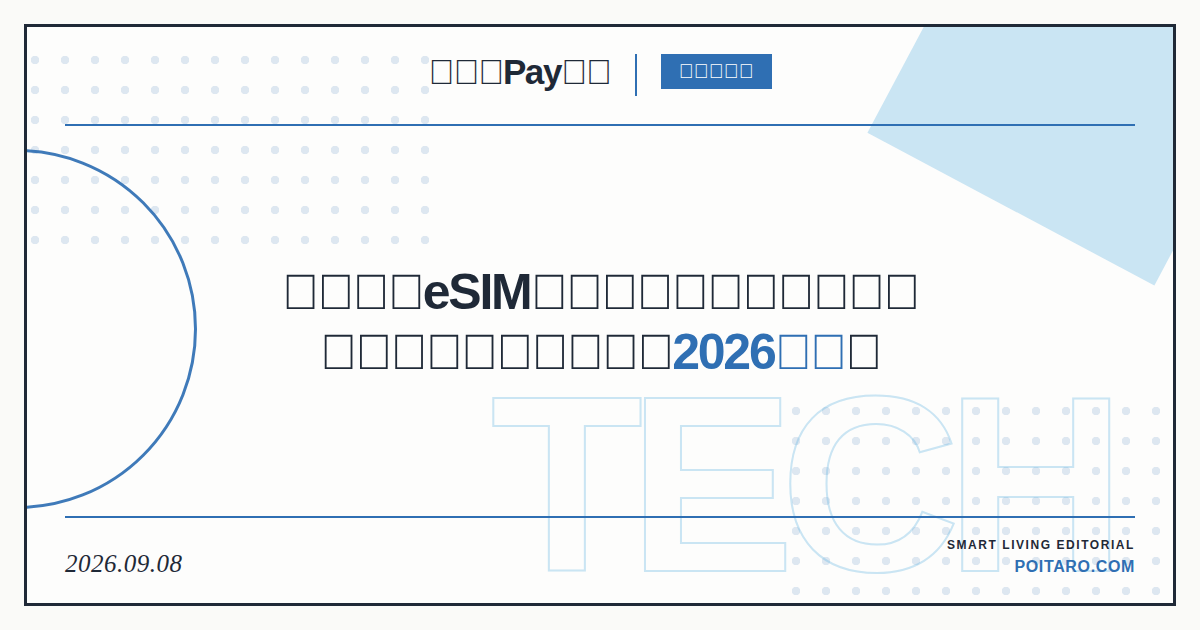
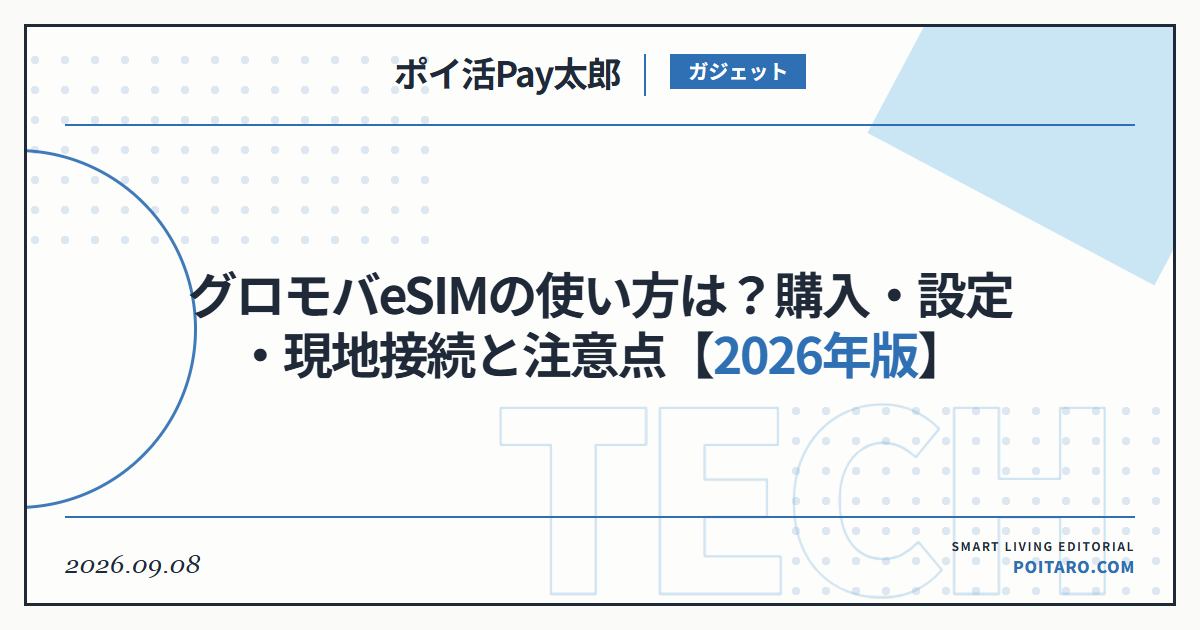
deploy: site with generated thumbnails and articles 7919da9fbc790c1b5a4da77de84e70a3f6fb7047

diff --git a/articles_html/sim-card-vs-esim-difference-travel-2026.html b/articles_html/sim-card-vs-esim-difference-travel-2026.html
@@ -24,7 +24,7 @@
     <meta property="og:site_name" content="ポイ活Pay太郎">
     <meta property="og:locale" content="ja_JP">
     <meta property="article:published_time" content="2026-09-07T15:00:00.000Z">
-    <meta property="article:modified_time" content="2026-09-08T12:34:03.858Z">
+    <meta property="article:modified_time" content="2026-09-08T12:43:52.773Z">
     <meta property="article:section" content="ガジェット">
 
     <!-- Twitter Card -->
@@ -34,7 +34,7 @@
     <meta name="twitter:image" content="https://poitaro.com/thumbnails/sim-card-vs-esim-difference-travel-2026.png">
     <meta name="twitter:image:alt" content="SIMカードとeSIMの違いは？メリット・デメリットと海外旅行での選び方【2026年版】">
 
-    <script type="application/ld+json">{"@context":"https://schema.org","@type":"Article","headline":"SIMカードとeSIMの違いは？メリット・デメリットと海外旅行での選び方【2026年版】","description":"SIMカードとeSIMは何が違う？差し替え、設定、対応端末、安全性、デュアルSIM、海外旅行での使いやすさを比較し、どちらを選ぶべきか分かりやすく解説します。","image":["https://poitaro.com/thumbnails/sim-card-vs-esim-difference-travel-2026.png"],"datePublished":"2026-09-07T15:00:00.000Z","dateModified":"2026-09-08T12:34:03.858Z","author":{"@type":"Person","name":"ポイ活Pay太郎","url":"https://poitaro.com/about.html"},"publisher":{"@type":"Organization","name":"ポイ活Pay太郎","url":"https://poitaro.com/"},"mainEntityOfPage":{"@type":"WebPage","@id":"https://poitaro.com/articles_html/sim-card-vs-esim-difference-travel-2026.html"},"articleSection":"ガジェット","keywords":"eSIM, SIMカード, 海外旅行, デュアルSIM, iPhone, Android, グロモバeSIM"}</script>
+    <script type="application/ld+json">{"@context":"https://schema.org","@type":"Article","headline":"SIMカードとeSIMの違いは？メリット・デメリットと海外旅行での選び方【2026年版】","description":"SIMカードとeSIMは何が違う？差し替え、設定、対応端末、安全性、デュアルSIM、海外旅行での使いやすさを比較し、どちらを選ぶべきか分かりやすく解説します。","image":["https://poitaro.com/thumbnails/sim-card-vs-esim-difference-travel-2026.png"],"datePublished":"2026-09-07T15:00:00.000Z","dateModified":"2026-09-08T12:43:52.773Z","author":{"@type":"Person","name":"ポイ活Pay太郎","url":"https://poitaro.com/about.html"},"publisher":{"@type":"Organization","name":"ポイ活Pay太郎","url":"https://poitaro.com/"},"mainEntityOfPage":{"@type":"WebPage","@id":"https://poitaro.com/articles_html/sim-card-vs-esim-difference-travel-2026.html"},"articleSection":"ガジェット","keywords":"eSIM, SIMカード, 海外旅行, デュアルSIM, iPhone, Android, グロモバeSIM"}</script>
     <script type="application/ld+json">{"@context":"https://schema.org","@type":"BreadcrumbList","itemListElement":[{"@type":"ListItem","position":1,"name":"ホーム","item":"https://poitaro.com/"},{"@type":"ListItem","position":2,"name":"ガジェット","item":"https://poitaro.com/?category=%E3%82%AC%E3%82%B8%E3%82%A7%E3%83%83%E3%83%88"},{"@type":"ListItem","position":3,"name":"SIMカードとeSIMの違いは？メリット・デメリットと海外旅行での選び方【2026年版】","item":"https://poitaro.com/articles_html/sim-card-vs-esim-difference-travel-2026.html"}]}</script>
 
     <!-- Favicon -->
@@ -747,7 +747,7 @@
                         <p class="mt-3 text-sm md:text-base leading-relaxed text-gray-700">SIMカードとeSIMは何が違う？差し替え、設定、対応端末、安全性、デュアルSIM、海外旅行での使いやすさを比較し、どちらを選ぶべきか分かりやすく解説します。</p>
                         <div class="flex flex-wrap items-center gap-x-4 gap-y-1 mt-4 text-xs md:text-sm font-bold text-gray-600">
                             <span><i data-lucide="calendar-days" class="w-3.5 h-3.5 inline mr-1"></i>公開 <time datetime="2026-09-07T15:00:00.000Z">2026-09-08</time></span>
-                            <span><i data-lucide="rotate-cw" class="w-3.5 h-3.5 inline mr-1"></i>更新 <time datetime="2026-09-08T12:34:03.858Z">2026-09-08</time></span>
+                            <span><i data-lucide="rotate-cw" class="w-3.5 h-3.5 inline mr-1"></i>更新 <time datetime="2026-09-08T12:43:52.773Z">2026-09-08</time></span>
                             <a href="../about.html#author" class="hover:text-brand-purple transition-colors"><i data-lucide="user-round" class="w-3.5 h-3.5 inline mr-1"></i>執筆・編集: ポイ活Pay太郎</a>
                             <a href="../about.html#editorial-policy" class="hover:text-brand-purple transition-colors"><i data-lucide="badge-check" class="w-3.5 h-3.5 inline mr-1"></i>編集・検証方針</a>
                         </div>

diff --git a/articles_html/gmobile-esim-how-to-use-2026.html b/articles_html/gmobile-esim-how-to-use-2026.html
@@ -24,7 +24,7 @@
     <meta property="og:site_name" content="ポイ活Pay太郎">
     <meta property="og:locale" content="ja_JP">
     <meta property="article:published_time" content="2026-09-07T15:00:00.000Z">
-    <meta property="article:modified_time" content="2026-09-08T12:34:03.853Z">
+    <meta property="article:modified_time" content="2026-09-08T12:43:52.768Z">
     <meta property="article:section" content="ガジェット">
 
     <!-- Twitter Card -->
@@ -34,7 +34,7 @@
     <meta name="twitter:image" content="https://poitaro.com/thumbnails/gmobile-esim-how-to-use-2026.png">
     <meta name="twitter:image:alt" content="グロモバeSIMの使い方は？購入・設定・現地接続と注意点【2026年版】">
 
-    <script type="application/ld+json">{"@context":"https://schema.org","@type":"Article","headline":"グロモバeSIMの使い方は？購入・設定・現地接続と注意点【2026年版】","description":"グロモバeSIMの使い方を、購入前の確認、プラン選択、QRコードによる設定、現地での回線切り替え、つながらないときの対処まで順番に解説します。","image":["https://poitaro.com/thumbnails/gmobile-esim-how-to-use-2026.png"],"datePublished":"2026-09-07T15:00:00.000Z","dateModified":"2026-09-08T12:34:03.853Z","author":{"@type":"Person","name":"ポイ活Pay太郎","url":"https://poitaro.com/about.html"},"publisher":{"@type":"Organization","name":"ポイ活Pay太郎","url":"https://poitaro.com/"},"mainEntityOfPage":{"@type":"WebPage","@id":"https://poitaro.com/articles_html/gmobile-esim-how-to-use-2026.html"},"articleSection":"ガジェット","keywords":"グロモバeSIM, eSIM, 海外旅行, iPhone, Android, データローミング, SIMロック"}</script>
+    <script type="application/ld+json">{"@context":"https://schema.org","@type":"Article","headline":"グロモバeSIMの使い方は？購入・設定・現地接続と注意点【2026年版】","description":"グロモバeSIMの使い方を、購入前の確認、プラン選択、QRコードによる設定、現地での回線切り替え、つながらないときの対処まで順番に解説します。","image":["https://poitaro.com/thumbnails/gmobile-esim-how-to-use-2026.png"],"datePublished":"2026-09-07T15:00:00.000Z","dateModified":"2026-09-08T12:43:52.768Z","author":{"@type":"Person","name":"ポイ活Pay太郎","url":"https://poitaro.com/about.html"},"publisher":{"@type":"Organization","name":"ポイ活Pay太郎","url":"https://poitaro.com/"},"mainEntityOfPage":{"@type":"WebPage","@id":"https://poitaro.com/articles_html/gmobile-esim-how-to-use-2026.html"},"articleSection":"ガジェット","keywords":"グロモバeSIM, eSIM, 海外旅行, iPhone, Android, データローミング, SIMロック"}</script>
     <script type="application/ld+json">{"@context":"https://schema.org","@type":"BreadcrumbList","itemListElement":[{"@type":"ListItem","position":1,"name":"ホーム","item":"https://poitaro.com/"},{"@type":"ListItem","position":2,"name":"ガジェット","item":"https://poitaro.com/?category=%E3%82%AC%E3%82%B8%E3%82%A7%E3%83%83%E3%83%88"},{"@type":"ListItem","position":3,"name":"グロモバeSIMの使い方は？購入・設定・現地接続と注意点【2026年版】","item":"https://poitaro.com/articles_html/gmobile-esim-how-to-use-2026.html"}]}</script>
 
     <!-- Favicon -->
@@ -747,7 +747,7 @@
                         <p class="mt-3 text-sm md:text-base leading-relaxed text-gray-700">グロモバeSIMの使い方を、購入前の確認、プラン選択、QRコードによる設定、現地での回線切り替え、つながらないときの対処まで順番に解説します。</p>
                         <div class="flex flex-wrap items-center gap-x-4 gap-y-1 mt-4 text-xs md:text-sm font-bold text-gray-600">
                             <span><i data-lucide="calendar-days" class="w-3.5 h-3.5 inline mr-1"></i>公開 <time datetime="2026-09-07T15:00:00.000Z">2026-09-08</time></span>
-                            <span><i data-lucide="rotate-cw" class="w-3.5 h-3.5 inline mr-1"></i>更新 <time datetime="2026-09-08T12:34:03.853Z">2026-09-08</time></span>
+                            <span><i data-lucide="rotate-cw" class="w-3.5 h-3.5 inline mr-1"></i>更新 <time datetime="2026-09-08T12:43:52.768Z">2026-09-08</time></span>
                             <a href="../about.html#author" class="hover:text-brand-purple transition-colors"><i data-lucide="user-round" class="w-3.5 h-3.5 inline mr-1"></i>執筆・編集: ポイ活Pay太郎</a>
                             <a href="../about.html#editorial-policy" class="hover:text-brand-purple transition-colors"><i data-lucide="badge-check" class="w-3.5 h-3.5 inline mr-1"></i>編集・検証方針</a>
                         </div>
